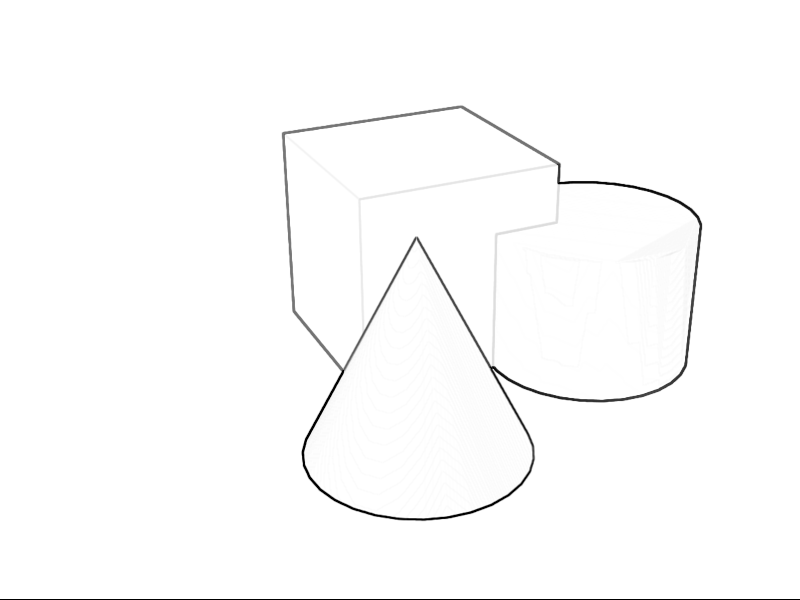
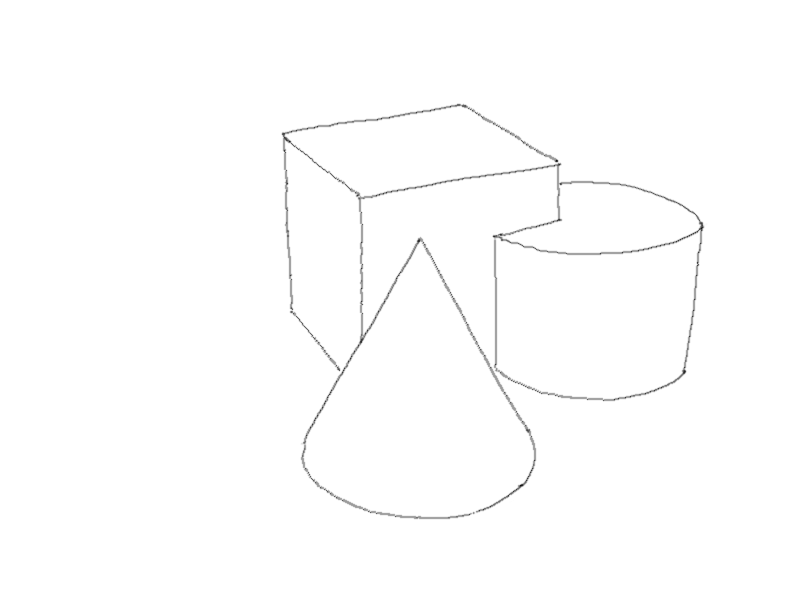
add edge detected version for better evaluation

diff --git a/server_python/server.py b/server_python/server.py
@@ -23,7 +23,7 @@ class ImageAnalyser(object):
 
 
     global mainImg
-    img = cv2.imread('src/models/objects_2/shapes_1.png',0)
+    img = cv2.imread('src/models/objects_2/shapes_1_e.png',0)
     img = cv2.resize(img,(800,600))
     mainImg = img
     global height
@@ -71,30 +71,30 @@ class ImageAnalyser(object):
         corners2 = cv2.goodFeaturesToTrack(aligned,525,0.01,10)
         corners2 = np.int0(corners2)
     
-# #    for TEST
-#         blank = np.zeros([height,width,3],dtype=np.uint8)
-#         blank.fill(255)
-#         for i in corners2:
-#             x,y = i.ravel()
-#             cv2.circle(blank,(x,y),3,255,-1)
+#    for TEST
+        # blank = np.zeros([height,width,3],dtype=np.uint8)
+        # blank.fill(255)
+        # for i in corners2:
+        #     x,y = i.ravel()
+        #     cv2.circle(blank,(x,y),3,255,-1)
 
-#         blank2 = np.zeros([height,width,3],dtype=np.uint8)
-#         blank2.fill(255)
-#         print(corners)
-#         for i in corners:
-#             x,y = i.ravel()
-#             cv2.circle(blank2,(x,y),3,255,-1)
+        # blank2 = np.zeros([height,width,3],dtype=np.uint8)
+        # blank2.fill(255)
+        # print(corners)
+        # for i in corners:
+        #     x,y = i.ravel()
+        #     cv2.circle(blank2,(x,y),3,255,-1)
 
 
       
-#         plt.subplot(121),plt.imshow(blank2,cmap = 'gray')
-#         plt.title('Original image'), plt.xticks([]), plt.yticks([])
-#         plt.subplot(122)
-#         plt.title('drawn'), plt.xticks([]), plt.yticks([])
-#         plt.imshow(blank,cmap = 'gray'),plt.show()
+        # plt.subplot(121),plt.imshow(blank2,cmap = 'gray')
+        # plt.title('Original image'), plt.xticks([]), plt.yticks([])
+        # plt.subplot(122)
+        # plt.title('drawn'), plt.xticks([]), plt.yticks([])
+        # plt.imshow(blank,cmap = 'gray'),plt.show()
 
 
-#     # END - for TEST
+    # END - for TEST
 
 
 
